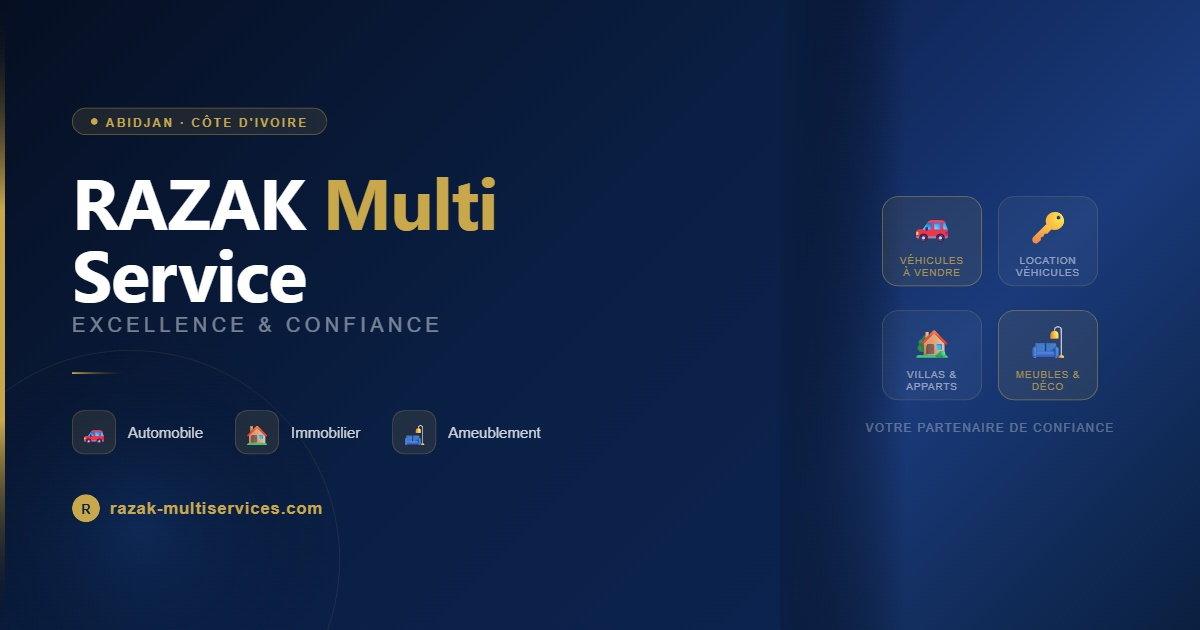
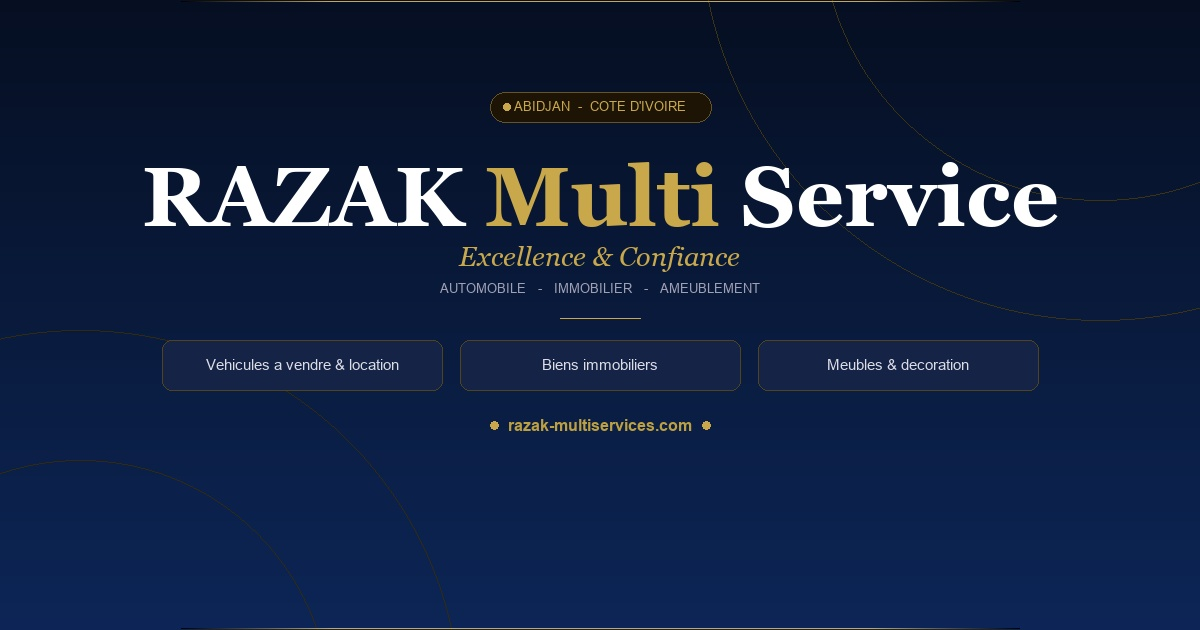
Fix OG image: centered layout to prevent WhatsApp cropping

diff --git a/og-card.html b/og-card.html
@@ -4,240 +4,104 @@
 <meta charset="UTF-8">
 <style>
   * { margin:0; padding:0; box-sizing:border-box; }
-  body { width:1200px; height:630px; overflow:hidden; font-family:'Georgia', serif; background:#0A1F44; }
+  body { width:1200px; height:630px; overflow:hidden; font-family:'Georgia', serif; }
 
   .card {
     width:1200px; height:630px;
-    background: linear-gradient(135deg, #060F22 0%, #0A1F44 45%, #0d2657 100%);
+    background: linear-gradient(135deg, #060F22 0%, #0A1F44 50%, #0d2657 100%);
     position:relative; overflow:hidden;
-    display:flex; align-items:center;
-  }
-
-  /* Cercles décoratifs dorés */
-  .circle-1 {
-    position:absolute; top:-120px; right:-80px;
-    width:500px; height:500px; border-radius:50%;
-    border:1px solid rgba(201,168,76,.18);
-  }
-  .circle-2 {
-    position:absolute; top:-60px; right:-20px;
-    width:380px; height:380px; border-radius:50%;
-    border:1px solid rgba(201,168,76,.12);
-  }
-  .circle-3 {
-    position:absolute; bottom:-140px; left:-80px;
-    width:420px; height:420px; border-radius:50%;
-    border:1px solid rgba(201,168,76,.10);
-  }
-  /* Glow doré en haut à droite */
-  .glow {
-    position:absolute; top:-80px; right:-60px;
-    width:480px; height:480px; border-radius:50%;
-    background: radial-gradient(circle, rgba(201,168,76,.13) 0%, transparent 70%);
-  }
-  /* Glow bleu en bas gauche */
-  .glow-2 {
-    position:absolute; bottom:-100px; left:-60px;
-    width:400px; height:400px; border-radius:50%;
-    background: radial-gradient(circle, rgba(30,80,160,.25) 0%, transparent 70%);
-  }
-  /* Ligne dorée gauche */
-  .gold-line {
-    position:absolute; left:0; top:0; bottom:0;
-    width:5px;
-    background: linear-gradient(to bottom, transparent, #C9A84C, #C9A84C, transparent);
-  }
-
-  /* CONTENU */
-  .content {
-    position:relative; z-index:10;
     display:flex; flex-direction:column;
-    padding:0 72px; width:100%;
+    align-items:center; justify-content:center;
+    text-align:center;
   }
 
-  /* Badge */
+  /* Décoration : cercles dorés */
+  .c1 { position:absolute; top:-160px; right:-160px; width:520px; height:520px; border-radius:50%; border:1px solid rgba(201,168,76,.15); }
+  .c2 { position:absolute; top:-100px; right:-100px; width:380px; height:380px; border-radius:50%; border:1px solid rgba(201,168,76,.10); }
+  .c3 { position:absolute; bottom:-160px; left:-160px; width:480px; height:480px; border-radius:50%; border:1px solid rgba(201,168,76,.12); }
+  .c4 { position:absolute; bottom:-100px; left:-100px; width:320px; height:320px; border-radius:50%; border:1px solid rgba(201,168,76,.08); }
+
+  /* Glow centraux */
+  .glow-top    { position:absolute; top:-100px;    left:50%; transform:translateX(-50%); width:700px; height:400px; border-radius:50%; background:radial-gradient(circle, rgba(201,168,76,.07) 0%, transparent 70%); }
+  .glow-bottom { position:absolute; bottom:-100px; left:50%; transform:translateX(-50%); width:600px; height:350px; border-radius:50%; background:radial-gradient(circle, rgba(20,60,140,.25) 0%, transparent 70%); }
+
+  /* Ligne dorée en haut */
+  .top-bar { position:absolute; top:0; left:0; right:0; height:3px; background:linear-gradient(to right, transparent, #C9A84C 30%, #C9A84C 70%, transparent); }
+  /* Ligne dorée en bas */
+  .bottom-bar { position:absolute; bottom:0; left:0; right:0; height:3px; background:linear-gradient(to right, transparent, #C9A84C 30%, #C9A84C 70%, transparent); }
+
+  /* Contenu centré */
+  .content { position:relative; z-index:10; display:flex; flex-direction:column; align-items:center; gap:0; padding:0 80px; width:100%; }
+
+  /* Badge pays */
   .badge {
     display:inline-flex; align-items:center; gap:8px;
-    background: rgba(201,168,76,.12);
-    border:1px solid rgba(201,168,76,.35);
-    border-radius:30px;
-    padding:6px 18px;
-    margin-bottom:28px;
-    width:fit-content;
+    background:rgba(201,168,76,.1); border:1px solid rgba(201,168,76,.3);
+    border-radius:30px; padding:6px 20px; margin-bottom:30px;
   }
-  .badge-dot { width:7px; height:7px; border-radius:50%; background:#C9A84C; }
-  .badge-text { font-size:12px; letter-spacing:.18em; text-transform:uppercase; color:#C9A84C; font-family:'Arial', sans-serif; font-weight:600; }
+  .badge-dot { width:7px; height:7px; border-radius:50%; background:#C9A84C; flex-shrink:0; }
+  .badge-text { font-size:12px; letter-spacing:.2em; text-transform:uppercase; color:#C9A84C; font-family:Arial,sans-serif; font-weight:700; }
 
-  /* Nom */
-  .brand-name {
-    font-size:72px; font-weight:700; line-height:1;
-    color:#fff; letter-spacing:-.02em;
-    margin-bottom:6px;
-  }
-  .brand-name span { color:#C9A84C; }
+  /* Nom principal */
+  .brand { font-size:82px; font-weight:700; color:#fff; line-height:.95; letter-spacing:-.02em; margin-bottom:10px; }
+  .brand span { color:#C9A84C; }
+  .brand-sub { font-size:28px; font-weight:400; color:#C9A84C; letter-spacing:.04em; margin-bottom:6px; font-family:Georgia,serif; font-style:italic; }
 
-  .brand-sub {
-    font-size:20px; color:rgba(255,255,255,.45);
-    letter-spacing:.22em; text-transform:uppercase;
-    font-family:'Arial', sans-serif; font-weight:400;
-    margin-bottom:36px;
-  }
+  /* Tagline */
+  .tagline { font-size:13px; letter-spacing:.22em; text-transform:uppercase; color:rgba(255,255,255,.35); font-family:Arial,sans-serif; margin-bottom:38px; }
 
   /* Séparateur */
-  .sep {
-    width:64px; height:2px;
-    background: linear-gradient(to right, #C9A84C, transparent);
-    margin-bottom:36px;
-  }
+  .sep { width:80px; height:1px; background:linear-gradient(to right, transparent, #C9A84C, transparent); margin-bottom:38px; }
 
   /* Services */
-  .services {
-    display:flex; gap:32px; margin-bottom:40px;
-  }
-  .service {
-    display:flex; align-items:center; gap:12px;
-  }
-  .service-icon {
-    width:44px; height:44px; border-radius:12px;
-    background: rgba(201,168,76,.12);
-    border:1px solid rgba(201,168,76,.25);
-    display:flex; align-items:center; justify-content:center;
-    font-size:20px;
-  }
-  .service-label {
-    font-size:15px; color:rgba(255,255,255,.8);
-    font-family:'Arial', sans-serif; font-weight:500;
-  }
-
-  /* URL */
-  .url-line {
+  .services { display:flex; gap:20px; justify-content:center; margin-bottom:38px; }
+  .svc {
     display:flex; align-items:center; gap:10px;
-  }
-  .url-icon {
-    width:28px; height:28px; border-radius:50%;
-    background:#C9A84C;
-    display:flex; align-items:center; justify-content:center;
-    font-size:13px; color:#0A1F44; font-weight:700; font-family:Arial;
-  }
-  .url-text {
-    font-size:17px; color:#C9A84C;
-    font-family:'Arial', sans-serif; letter-spacing:.04em; font-weight:600;
-  }
-
-  /* IMAGE DROITE — photo d'ambiance */
-  .right-visual {
-    position:absolute; right:0; top:0; bottom:0;
-    width:420px;
-    background: linear-gradient(to right, #0A1F44 0%, transparent 30%),
-                linear-gradient(135deg, #0d2250 0%, #1a3a7a 50%, #0a2040 100%);
-    display:flex; flex-direction:column;
-    align-items:center; justify-content:center;
-    gap:20px; padding:40px;
-  }
-
-  /* Grandes icônes décoratives */
-  .big-icons {
-    display:flex; flex-direction:column; gap:24px;
-    align-items:center;
-  }
-  .big-icon-row { display:flex; gap:16px; }
-  .big-icon-box {
-    width:100px; height:90px; border-radius:16px;
-    background: rgba(255,255,255,.04);
-    border:1px solid rgba(201,168,76,.2);
-    display:flex; flex-direction:column;
-    align-items:center; justify-content:center;
-    gap:8px;
+    background:rgba(255,255,255,.05); border:1px solid rgba(201,168,76,.22);
+    border-radius:14px; padding:12px 22px;
     backdrop-filter:blur(4px);
   }
-  .big-icon-box .ico { font-size:32px; }
-  .big-icon-box .lbl {
-    font-size:10px; color:rgba(255,255,255,.5);
-    font-family:Arial; text-transform:uppercase;
-    letter-spacing:.08em; text-align:center; line-height:1.2;
-  }
-  .big-icon-box.gold {
-    background: rgba(201,168,76,.1);
-    border-color: rgba(201,168,76,.4);
-  }
-  .big-icon-box.gold .lbl { color:rgba(201,168,76,.8); }
+  .svc-ico { font-size:22px; }
+  .svc-lbl { font-size:15px; color:rgba(255,255,255,.85); font-family:Arial,sans-serif; font-weight:500; white-space:nowrap; }
 
-  /* Tagline droite */
-  .right-tag {
-    font-size:12px; color:rgba(255,255,255,.3);
-    font-family:Arial; letter-spacing:.1em;
-    text-transform:uppercase; text-align:center;
-  }
+  /* URL */
+  .url-row { display:flex; align-items:center; gap:10px; }
+  .url-dot { width:8px; height:8px; border-radius:50%; background:#C9A84C; }
+  .url { font-size:16px; color:rgba(201,168,76,.85); font-family:Arial,sans-serif; letter-spacing:.06em; font-weight:600; }
 </style>
 </head>
 <body>
 <div class="card">
-  <!-- Déco -->
-  <div class="circle-1"></div>
-  <div class="circle-2"></div>
-  <div class="circle-3"></div>
-  <div class="glow"></div>
-  <div class="glow-2"></div>
-  <div class="gold-line"></div>
+  <div class="c1"></div><div class="c2"></div>
+  <div class="c3"></div><div class="c4"></div>
+  <div class="glow-top"></div>
+  <div class="glow-bottom"></div>
+  <div class="top-bar"></div>
+  <div class="bottom-bar"></div>
 
-  <!-- Contenu gauche -->
   <div class="content">
     <div class="badge">
       <div class="badge-dot"></div>
-      <span class="badge-text">Abidjan · Côte d'Ivoire</span>
+      <span class="badge-text">Abidjan &nbsp;·&nbsp; Côte d'Ivoire</span>
     </div>
 
-    <div class="brand-name">RAZAK <span>Multi</span><br>Service</div>
+    <div class="brand">RAZAK <span>Multi</span> Service</div>
     <div class="brand-sub">Excellence &amp; Confiance</div>
+    <div class="tagline">Automobile &nbsp;·&nbsp; Immobilier &nbsp;·&nbsp; Ameublement</div>
 
     <div class="sep"></div>
 
     <div class="services">
-      <div class="service">
-        <div class="service-icon">🚗</div>
-        <span class="service-label">Automobile</span>
-      </div>
-      <div class="service">
-        <div class="service-icon">🏠</div>
-        <span class="service-label">Immobilier</span>
-      </div>
-      <div class="service">
-        <div class="service-icon">🛋</div>
-        <span class="service-label">Ameublement</span>
-      </div>
+      <div class="svc"><div class="svc-ico">🚗</div><span class="svc-lbl">Véhicules à vendre &amp; location</span></div>
+      <div class="svc"><div class="svc-ico">🏠</div><span class="svc-lbl">Biens immobiliers</span></div>
+      <div class="svc"><div class="svc-ico">🛋</div><span class="svc-lbl">Meubles &amp; décoration</span></div>
     </div>
 
-    <div class="url-line">
-      <div class="url-icon">R</div>
-      <span class="url-text">razak-multiservices.com</span>
+    <div class="url-row">
+      <div class="url-dot"></div>
+      <span class="url">razak-multiservices.com</span>
+      <div class="url-dot"></div>
     </div>
-  </div>
-
-  <!-- Visuel droite -->
-  <div class="right-visual">
-    <div class="big-icons">
-      <div class="big-icon-row">
-        <div class="big-icon-box gold">
-          <div class="ico">🚗</div>
-          <div class="lbl">Véhicules<br>à vendre</div>
-        </div>
-        <div class="big-icon-box">
-          <div class="ico">🔑</div>
-          <div class="lbl">Location<br>véhicules</div>
-        </div>
-      </div>
-      <div class="big-icon-row">
-        <div class="big-icon-box">
-          <div class="ico">🏡</div>
-          <div class="lbl">Villas &<br>Apparts</div>
-        </div>
-        <div class="big-icon-box gold">
-          <div class="ico">🛋</div>
-          <div class="lbl">Meubles &<br>Déco</div>
-        </div>
-      </div>
-    </div>
-    <div class="right-tag">Votre partenaire de confiance</div>
   </div>
 </div>
 </body>
